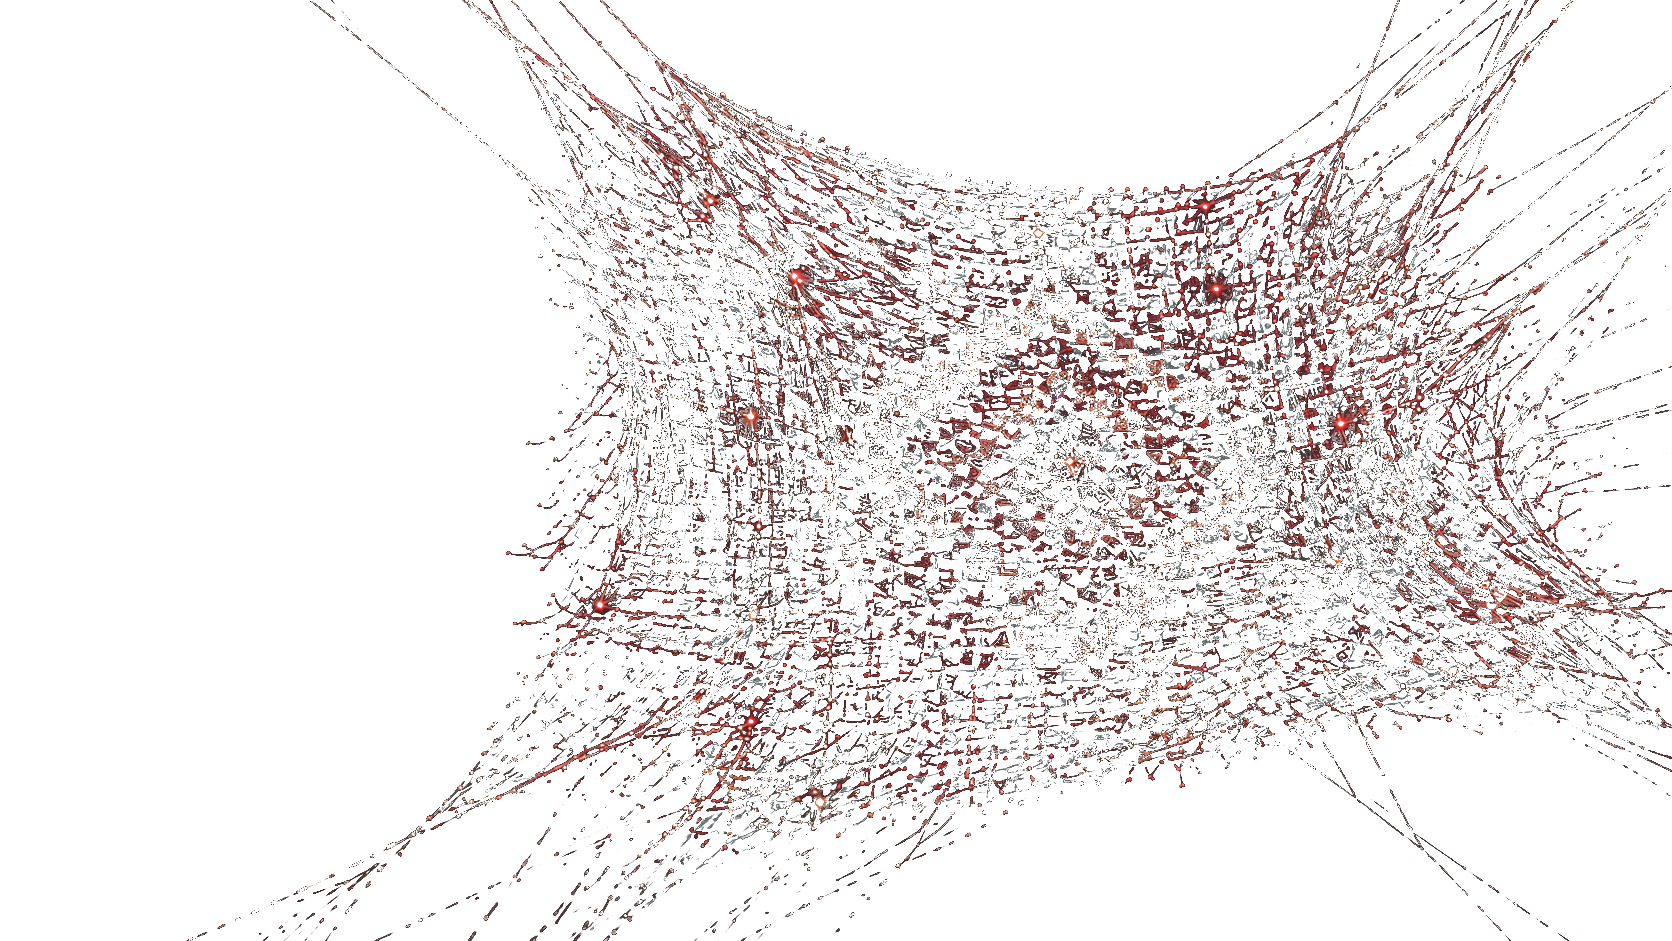
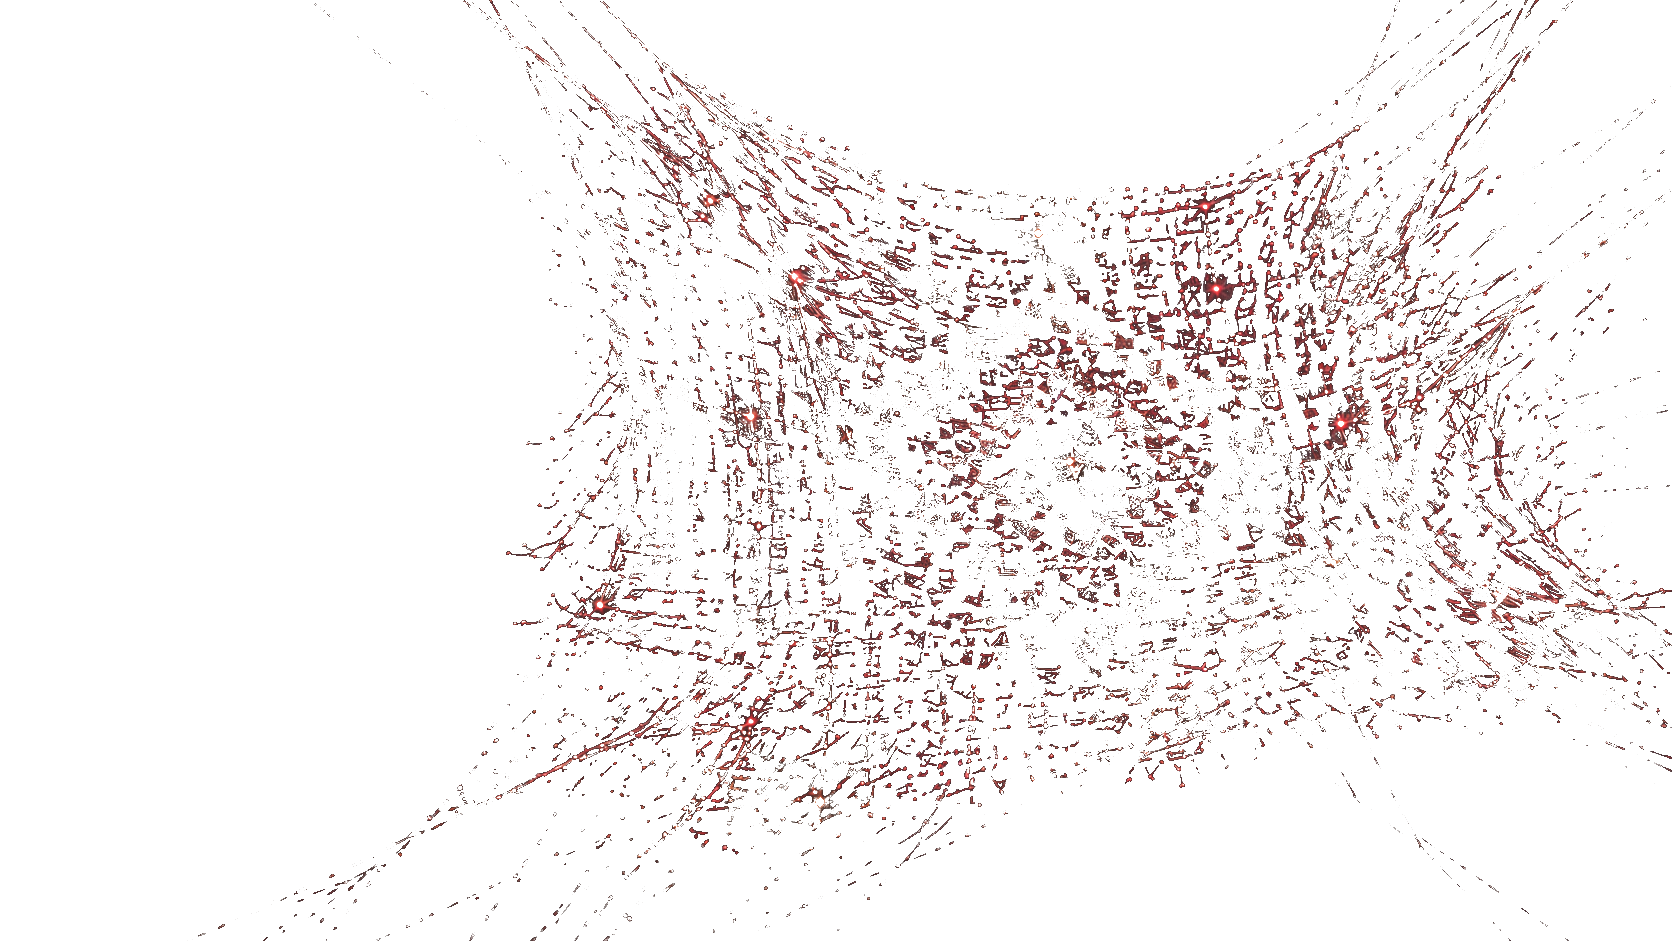
refactor: implement anchor-based hybrid color extraction with post-process alpha cleaning for hero weaves

diff --git a/website/scripts/extract-weave-color-families.py b/website/scripts/extract-weave-color-families.py
@@ -1,10 +1,14 @@
 #!/usr/bin/env python3
 """Extract semantic color-family overlays from the Izge hero weave artwork.
 
-This script intentionally derives interaction overlays from the pixels already
-present in hero-memory-weave.png. It does not draw new nodes, lines, or shapes.
-It requires Netpbm's pngtopnm/pnmtopng utilities, which are available in the
-local development environment.
+The interaction assets are derived from pixels already present in
+hero-memory-weave.png. The extraction uses a hybrid model:
+
+1. broad family gates from HSV/chroma/luminance logic, and
+2. image-specific anchor swatches that refine confidence inside each gate.
+
+It does not draw new nodes, lines, or shapes. Netpbm's pngtopnm/pnmtopng are
+used so the script stays dependency-light for the static website.
 """
 from __future__ import annotations
 
@@ -24,6 +28,62 @@ FAMILIES = {
     "contradiction": "burgundy red contradiction tension",
     "drift": "brown woven-depth assumption drift",
     "next": "pale amber next-action guidance",
+}
+
+# Anchor swatches are intentionally plural and soft. They refine broad family
+# detection against the actual artwork without requiring exact swatch matches.
+ANCHORS: dict[str, tuple[tuple[int, int, int], ...]] = {
+    "stable": (
+        # User-picked dark blue / blue-green tones from the source artwork.
+        # These are deliberately dark, so the stable family uses a low-light
+        # gate instead of the brighter gates used for contradiction/next.
+        (16, 25, 27),
+        (10, 34, 49),
+        (52, 69, 75),
+        (8, 22, 25),
+        (25, 42, 48),
+        (9, 20, 26),
+        (9, 16, 19),
+        (56, 101, 98),
+        (36, 47, 52),
+        (11, 14, 15),
+        (19, 27, 31),
+        (27, 39, 44),
+        (22, 37, 42),
+        (26, 38, 39),
+        (17, 25, 26),
+        (22, 25, 23),
+        (17, 30, 34),
+        (25, 29, 42),
+    ),
+    "contradiction": (
+        (75, 1, 8),
+        (96, 10, 14),
+        (128, 24, 22),
+        (164, 42, 31),
+    ),
+    "drift": (
+        (82, 57, 42),
+        (104, 69, 42),
+        (128, 84, 48),
+        (151, 106, 66),
+    ),
+    "next": (
+        (201, 180, 149),
+        (218, 188, 137),
+        (184, 152, 109),
+        (242, 215, 178),
+    ),
+}
+
+# Per-family blending reflects the artwork: contradiction needs stronger anchor
+# precision to avoid brown bleed; stable needs a broader gate because the dark
+# structural color is low-light; next remains luminance constrained.
+BLEND = {
+    "stable": {"broad": 0.50, "anchor": 0.50, "sigma": 42.0, "floor": 0.22},
+    "contradiction": {"broad": 0.44, "anchor": 0.56, "sigma": 54.0, "floor": 0.12},
+    "drift": {"broad": 0.54, "anchor": 0.46, "sigma": 58.0, "floor": 0.14},
+    "next": {"broad": 0.58, "anchor": 0.42, "sigma": 70.0, "floor": 0.10},
 }
 
 
@@ -51,6 +111,14 @@ def hue_gaussian(hue: float, target: float, sigma: float) -> float:
 def rgb_distance_score(rgb: tuple[int, int, int], target: tuple[int, int, int], sigma: float) -> float:
     d = math.sqrt(sum((a - b) ** 2 for a, b in zip(rgb, target)))
     return math.exp(-(d * d) / (2.0 * sigma * sigma))
+
+
+def anchor_score(family: str, rgb: tuple[int, int, int]) -> float:
+    sigma = BLEND[family]["sigma"]
+    scores = [rgb_distance_score(rgb, anchor, sigma) for anchor in ANCHORS[family]]
+    # Max keeps distinct thread colors alive; average rewards clusters close to
+    # multiple anchors. The mix avoids both overfitting and noisy over-inclusion.
+    return clamp(max(scores) * 0.72 + (sum(scores) / len(scores)) * 0.28)
 
 
 def read_ppm(path: Path) -> tuple[int, int, int, bytes]:
@@ -93,7 +161,7 @@ def write_pgm(path: Path, width: int, height: int, alpha: bytearray) -> None:
     path.write_bytes(f"P5\n{width} {height}\n255\n".encode() + bytes(alpha))
 
 
-def family_scores(r: int, g: int, b: int) -> dict[str, float]:
+def broad_family_scores(r: int, g: int, b: int) -> dict[str, float]:
     rn, gn, bn = r / 255.0, g / 255.0, b / 255.0
     hue, sat, value = colorsys.rgb_to_hsv(rn, gn, bn)
     hue *= 360.0
@@ -105,13 +173,13 @@ def family_scores(r: int, g: int, b: int) -> dict[str, float]:
     visible_color = smoothstep(0.035, 0.13, chroma) * smoothstep(0.035, 0.14, value)
     saturated = smoothstep(0.10, 0.34, sat)
 
-    stable = (
-        max(hue_gaussian(hue, 178.0, 42.0), hue_gaussian(hue, 205.0, 36.0))
-        * smoothstep(0.08, 0.28, sat)
-        * smoothstep(0.05, 0.18, value)
-        * (1.0 - smoothstep(0.62, 0.9, value))
-        * visible_color
+    stable_hue = max(hue_gaussian(hue, 178.0, 46.0), hue_gaussian(hue, 205.0, 42.0), hue_gaussian(hue, 224.0, 34.0))
+    stable_low_light = smoothstep(0.025, 0.105, value) * (1.0 - smoothstep(0.50, 0.78, value))
+    stable_color_presence = max(
+        smoothstep(0.045, 0.20, sat),
+        smoothstep(0.028, 0.105, chroma),
     )
+    stable = stable_hue * stable_color_presence * stable_low_light
 
     contradiction = (
         max(hue_gaussian(hue, 356.0, 24.0), hue_gaussian(hue, 6.0, 22.0))
@@ -119,12 +187,6 @@ def family_scores(r: int, g: int, b: int) -> dict[str, float]:
         * smoothstep(0.055, 0.18, value)
         * (1.0 - smoothstep(0.28, 0.50, hue_distance(hue, 32.0) / 180.0))
         * visible_color
-    )
-    # Deep burgundy can be very dark; reinforce target-near pixels without
-    # spilling into neutral blacks.
-    contradiction = max(
-        contradiction,
-        rgb_distance_score((r, g, b), (75, 1, 8), 62.0) * smoothstep(0.06, 0.19, sat) * smoothstep(0.04, 0.16, value),
     )
 
     drift = (
@@ -134,20 +196,12 @@ def family_scores(r: int, g: int, b: int) -> dict[str, float]:
         * (1.0 - smoothstep(0.58, 0.88, value))
         * visible_color
     )
-    drift = max(
-        drift,
-        rgb_distance_score((r, g, b), (82, 57, 42), 70.0) * smoothstep(0.05, 0.18, chroma) * smoothstep(0.05, 0.16, value),
-    )
 
     next_action = (
         hue_gaussian(hue, 41.0, 24.0)
         * smoothstep(0.035, 0.18, sat)
         * smoothstep(0.36, 0.72, value)
         * smoothstep(0.34, 0.62, luminance)
-    )
-    next_action = max(
-        next_action,
-        rgb_distance_score((r, g, b), (201, 180, 149), 92.0) * smoothstep(0.38, 0.68, luminance),
     )
 
     return {
@@ -158,17 +212,73 @@ def family_scores(r: int, g: int, b: int) -> dict[str, float]:
     }
 
 
+def family_scores(r: int, g: int, b: int) -> dict[str, float]:
+    rgb = (r, g, b)
+    broad = broad_family_scores(r, g, b)
+    scores: dict[str, float] = {}
+    for family in FAMILIES:
+        broad_score = broad[family]
+        anchor = anchor_score(family, rgb)
+        if family == "stable":
+            # Stable-memory pixels are extremely dark in the artwork. Keep the
+            # broad family gate, but let a strong source-image anchor lift
+            # plausible low-light blue/green structure above the noise floor.
+            gate = max(smoothstep(0.020, 0.22, broad_score), smoothstep(0.30, 0.72, anchor) * smoothstep(0.012, 0.09, max(rgb) / 255.0))
+        else:
+            gate = smoothstep(0.035, 0.34, broad_score)
+        blend = BLEND[family]
+        hybrid = blend["broad"] * broad_score + blend["anchor"] * anchor
+        # The broad floor preserves soft thread edges only after the broad gate
+        # has said the pixel plausibly belongs to the family.
+        floor = blend["floor"] * broad_score
+        scores[family] = clamp(gate * max(hybrid, floor))
+    return scores
+
+
 def alpha_for(family: str, scores: dict[str, float]) -> int:
     ordered = sorted(scores.values(), reverse=True)
     best = scores[family]
-    if best < 0.08 or best < ordered[0] - 1e-9:
+    if best < 0.07 or best < ordered[0] - 1e-9:
         return 0
     second = ordered[1] if len(ordered) > 1 else 0.0
-    confidence = clamp(0.34 + (best - second) / 0.30)
-    alpha = smoothstep(0.08, 0.74, best) * confidence
+    confidence = clamp(0.30 + (best - second) / 0.26)
+    alpha = smoothstep(0.07, 0.68, best) * confidence
     # Keep overlays embedded rather than posterized: no family can become a
     # fully opaque repaint of the artwork.
-    return round(220 * clamp(alpha))
+    return round(212 * clamp(alpha))
+
+
+def clean_alpha(width: int, height: int, alpha: bytearray) -> bytearray:
+    cleaned = bytearray(alpha)
+    for y in range(height):
+        row = y * width
+        for x in range(width):
+            idx = row + x
+            a = alpha[idx]
+            if a == 0:
+                continue
+
+            neighbor_values: list[int] = []
+            for yy in range(max(0, y - 1), min(height, y + 2)):
+                for xx in range(max(0, x - 1), min(width, x + 2)):
+                    nidx = yy * width + xx
+                    if nidx == idx:
+                        continue
+                    if alpha[nidx] > 16:
+                        neighbor_values.append(alpha[nidx])
+
+            count = len(neighbor_values)
+            if count == 0:
+                cleaned[idx] = round(a * 0.18)
+            elif count == 1 and a < 92:
+                cleaned[idx] = 0
+            elif count <= 2 and a < 42:
+                cleaned[idx] = 0
+            elif count >= 2:
+                neighbor_avg = sum(neighbor_values) / count
+                cleaned[idx] = round(clamp((a * 0.88 + neighbor_avg * 0.12) / 255.0) * 255)
+
+    return cleaned
 
 
 def main() -> None:
@@ -196,7 +306,11 @@ def main() -> None:
                 r, g, b = pixels[offset], pixels[offset + 1], pixels[offset + 2]
                 alpha = alpha_for(family, family_scores(r, g, b))
                 overlay_alpha[i] = alpha
+
+            overlay_alpha = clean_alpha(width, height, overlay_alpha)
+            for i, alpha in enumerate(overlay_alpha):
                 if alpha == 0:
+                    offset = i * 3
                     overlay_rgb[offset] = 0
                     overlay_rgb[offset + 1] = 0
                     overlay_rgb[offset + 2] = 0
